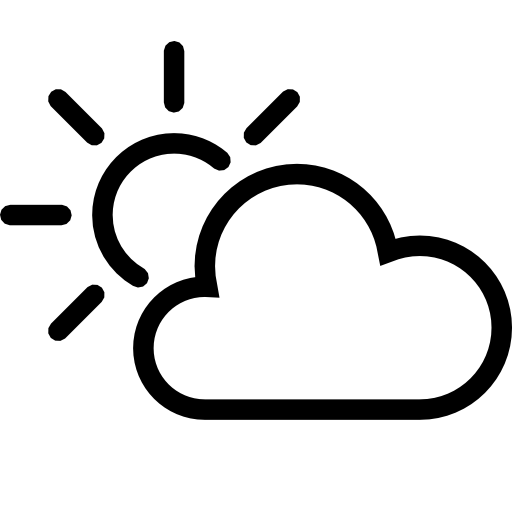
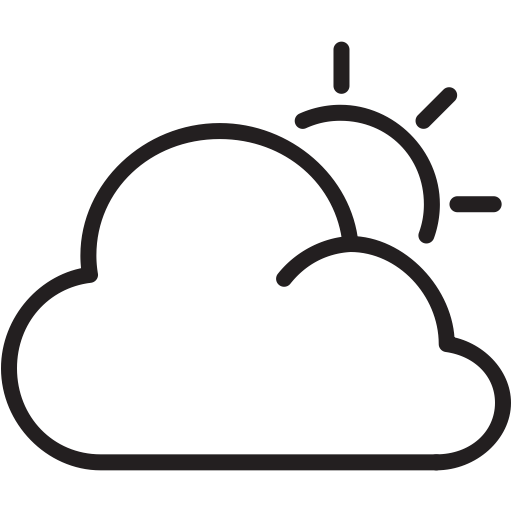
Add image for overcast

diff --git a/weatherstation/static/weather.js b/weatherstation/static/weather.js
@@ -70,9 +70,13 @@ function updateTemperature() {
  */
 function updateWeatherCondition(condition) {
     var conditionImage;
-    switch (condition.toLowerCase()) {
+    condition = condition.toLowerCase();
+    switch (condition) {
         case 'rain':
             conditionImage = 'static/images/rain.png';
+            break;
+        case 'overcast':
+            conditionImage = 'static/images/overcast.png';
             break;
     }
 
@@ -80,10 +84,7 @@ function updateWeatherCondition(condition) {
     if (!conditionImage) {
         imageDiv.innerHTML = condition;
     } else {
-        var image = document.createElement('img');
-        img.src = conditionImage;
-        imageDiv.appendChild(image);
-        $('#condition-image').text('<img src="' + conditionImage + '">');                    
+        imageDiv.innerHTML = '<img src="' + conditionImage + '">';                 
     }
 }
 
@@ -210,9 +211,9 @@ function updateData() {
 
 updateData();
 
-/** Anonymous function to call the updateData function every 30 seconds. */
+/** Anonymous function to call the updateData function periodically. */
 $(function() {
-    setInterval(updateData, 30000);
+    setInterval(updateData, 300000);
 });
 
 /** Function tied to button to toggle between celsisu and fahrenheit. */

diff --git a/weatherstation/static/css/index.css b/weatherstation/static/css/index.css
@@ -60,12 +60,12 @@
 }
 
 #outside-temperature-container {
-/*    display: flex;
-    flex-wrap: wrap;
-    justify-content: flex-start;*/
-
     width: 400px;
     height: 250px;
+}
+
+#outside-temperature-container img {
+    width: 250px;
 }
 
 .intemp {
